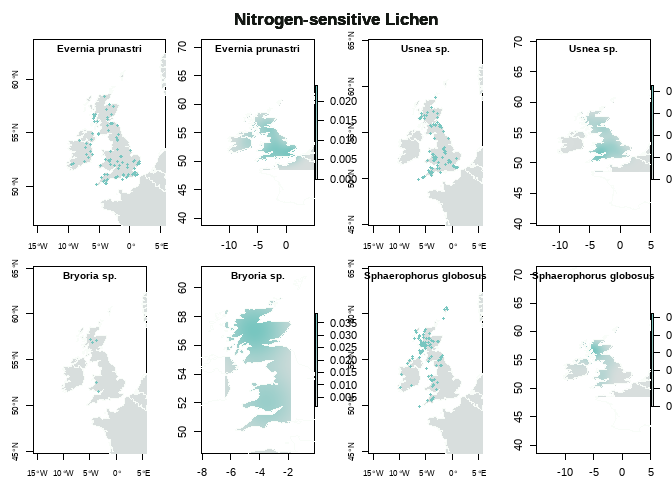
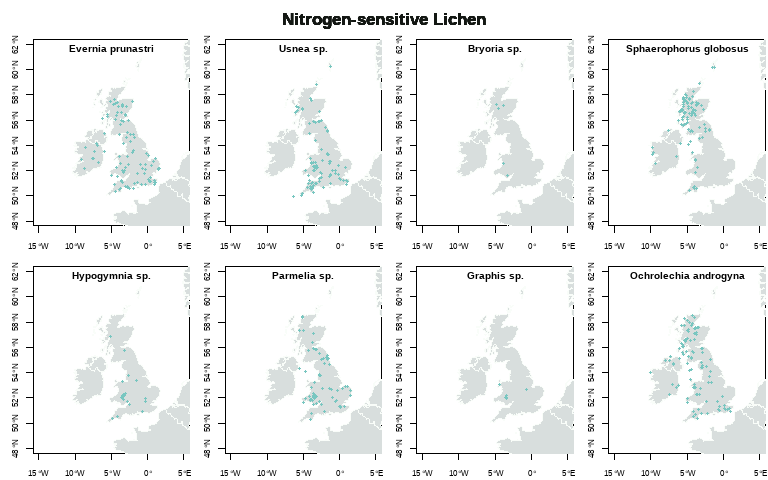
added a readme file and added kde differencing

diff --git a/lichenMapping.md b/lichenMapping.md
@@ -1,14 +1,11 @@
 Lichen Mapping
 ================
 Rosemary Victoria Greensmith
-2025-09-17
+2025-09-19
 
 ## Lichen Occurrences
 
 ### Lichen species names
-
-    ## Warning in cbind(nSensitive, nTolerant): number of rows of result is not a
-    ## multiple of vector length (arg 1)
 
 | nSensitive             | nTolerant             |
 |:-----------------------|:----------------------|
@@ -26,62 +23,24 @@ Nitrogen Indicator Species
 
 <!-- ### Base map -->
 
-This code displays the raw NBN Atlas data on maps.
+<!-- This code displays the raw NBN Atlas data on maps. -->
 
-``` r
-################################################################################
-#                 Maps of records from the NBN Atlas
-################################################################################
+<img src="lichenMapping_files/figure-gfm/occurrenceMaps-1.png" style="display: block; margin: auto;" /><img src="lichenMapping_files/figure-gfm/occurrenceMaps-2.png" style="display: block; margin: auto;" /><img src="lichenMapping_files/figure-gfm/occurrenceMaps-3.png" style="display: block; margin: auto;" />
 
+## Combined species occurrences
 
-# Set graphical parameters for the maps
-op = par(mfrow=c(2,4), font.lab = 2,
-         mar=c(2,2.5,1,0.1)+0.1,
-         oma=c(0.01,0.01,2,0.01),xpd=FALSE)
+<img src="lichenMapping_files/figure-gfm/combinedMap-1.png" style="display: block; margin: auto;" />
 
-###### Get NBN Atlas data and map the records ######
-for (z in 1:2) {
-  if (z == 1){
-    indicatorSpp = nSensitive
-  } else {
-    indicatorSpp = nTolerant
-  }
-  for (a in 1:length(indicatorSpp)) {
-    df = getNBNData(indicatorSpp[a],100)
-    
-    if(z==1) {
-      colGroup = "a"
-      mainTitle = "Nitrogen-sensitive Lichen"
-    } else {
-      colGroup = "b"
-      mainTitle = "Nitrogen-tolerant Lichen"
-    }
-  
-    occurrenceMap(uk_map,df,indicatorSpp[a],colGroup,kdePlot = TRUE)
-    
-     mtext(mainTitle,
-          side = 3, line = -0.14, outer = TRUE,col = c("#131713"),
-          font = 2,cex = 1.05)
-    rm(df)
-  }
-  
-}
-```
+## Difference between indicator species occurrences
 
-![](lichenMapping_files/figure-gfm/occurrenceMaps-1.png)<!-- -->![](lichenMapping_files/figure-gfm/occurrenceMaps-2.png)<!-- -->![](lichenMapping_files/figure-gfm/occurrenceMaps-3.png)<!-- -->![](lichenMapping_files/figure-gfm/occurrenceMaps-4.png)<!-- -->![](lichenMapping_files/figure-gfm/occurrenceMaps-5.png)<!-- -->
+    ## ********** Utilization distribution of several Animals ************
+    ## 
+    ## Type: probability density
+    ## Smoothing parameter estimated with a  href smoothing parameter
+    ## This object is a list with one component per animal.
+    ## Each component is an object of class estUD
+    ## See estUD-class for more information
 
-## Combined Species occurrences
+    ## [1] TRUE
 
-    ##      scientificName decimalLongitude decimalLatitude indicatorType
-    ## 1 Evernia prunastri        -3.217716        52.02736    nSensitive
-    ## 2 Evernia prunastri        -3.309574        51.82857    nSensitive
-    ## 3 Evernia prunastri         0.450069        51.13809    nSensitive
-    ## 4 Evernia prunastri        -4.075392        56.56116    nSensitive
-    ## 5 Evernia prunastri        -4.011536        57.07350    nSensitive
-    ## 6 Evernia prunastri        -2.930506        54.57748    nSensitive
-
-![](lichenMapping_files/figure-gfm/combinedData-1.png)<!-- -->
-
-## Combined Map
-
-![](lichenMapping_files/figure-gfm/combinedMap-1.png)<!-- -->![](lichenMapping_files/figure-gfm/combinedMap-2.png)<!-- -->
+<img src="lichenMapping_files/figure-gfm/mapDifference-1.png" style="display: block; margin: auto;" />

diff --git a/README.md b/README.md
@@ -1,0 +1,25 @@
+Lichen Mapping
+================
+Rosemary Victoria Greensmith
+2025-09-19
+
+### Lichen species
+
+| nSensitive             | nTolerant             |
+|:-----------------------|:----------------------|
+| Evernia prunastri      | Xanthoria parietina   |
+| Usnea sp.              | Xanthoria polycarpa   |
+| Bryoria sp.            | Xanthoria ucrainica   |
+| Sphaerophorus globosus | Physcia adscendens    |
+| Hypogymnia sp.         | Physcia tenella       |
+| Parmelia sp.           | Arthonia radiata      |
+| Graphis sp.            | Lecidella elaeochroma |
+| Ochrolechia androgyna  | Amandinea punctata    |
+| \-                     | Candelariella reflexa |
+
+## Difference between indicator species occurrences
+
+<img src="lichenMapping_files/figure-gfm/mapDifference-1.png" style="display: block; margin: auto;" />
+
+<img src="lichenMapping_files/figure-gfm/combinedMap-1.png" style="display: block; margin: auto;" />
+
